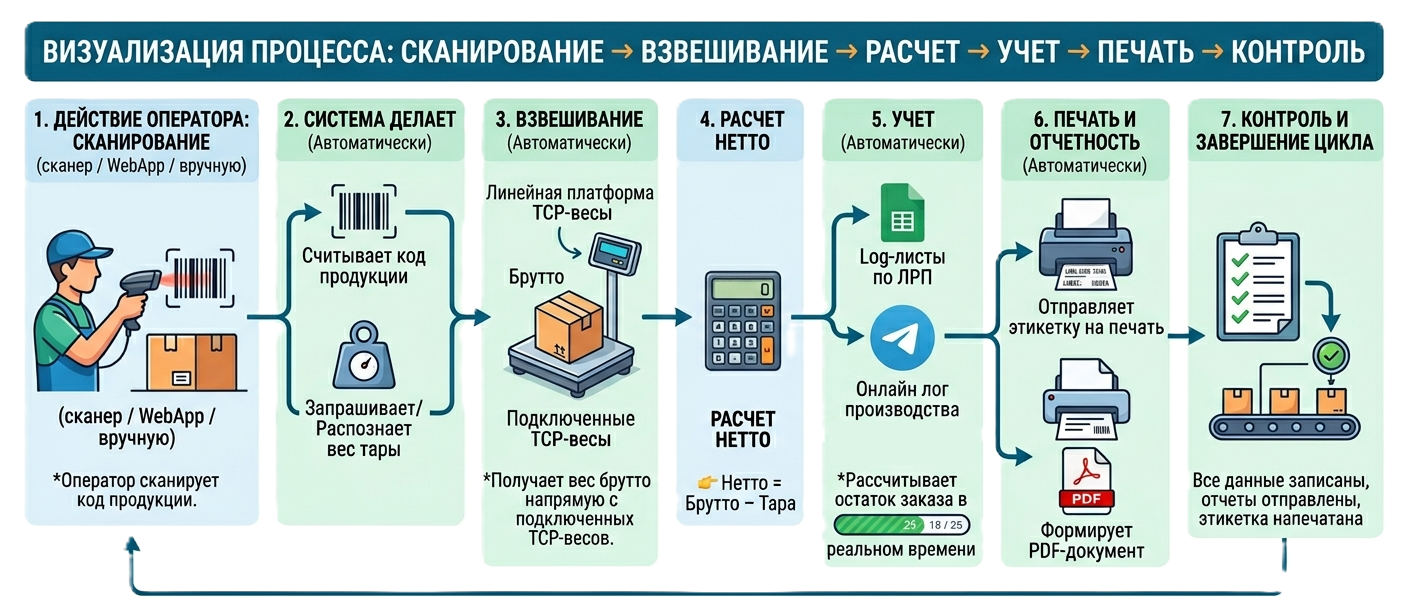
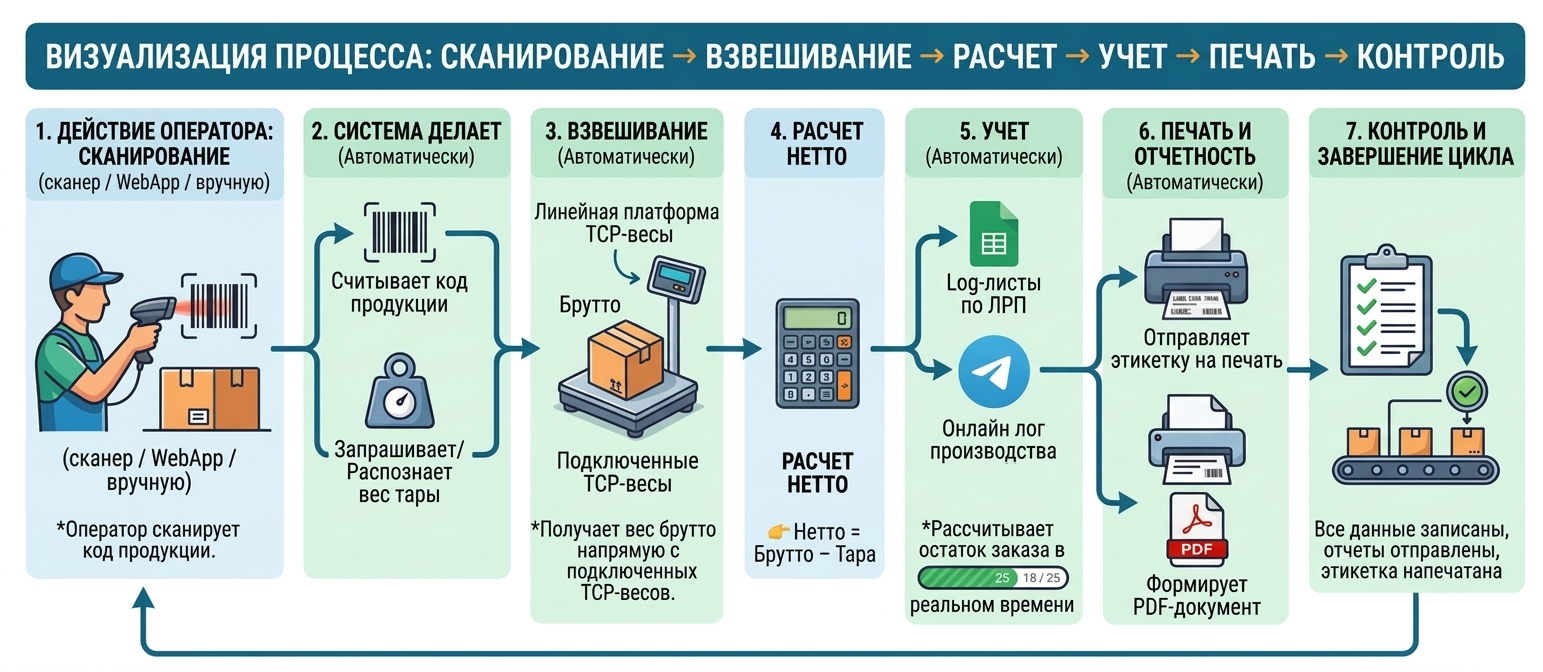
Update image12 again

Changed region(s): [[0.0, 0.0309, 1.0, 0.9902], [0.5, 0.6498, 0.5625, 0.7427], [0.0625, 0.8974, 0.0938, 0.9593]]

diff --git a/index.html b/index.html
@@ -428,7 +428,7 @@ section{
         <p class="hero-lead">Переход от ручного учета к цифровому управлению процессом</p>
       </div>
     </section>
-    <section id="section-1" class="content-section"><div class="section-head"><span class="section-kicker">1</span><h2>Проблемы</h2></div><article class="detail-card"><h3>Бумажный учет</h3><p>Во многих производственных компаниях учет продукции до сих пор построен на ручном вводе данных или на использовании разрозненных инструментов (Excel, бумажные записи, устные передачи информации).</p><p>Такая модель работы неизбежно приводит к системным потерям и снижению управляемости:</p><ul><li>ошибки операторов при вводе данных</li><li>расхождения по весу (брутто / нетто)</li><li>отсутствие прозрачности в режиме реального времени</li><li>задержки при обработке информации</li><li>невозможность оперативно проверить или восстановить операции</li><li>сложность анализа фактического выполнения заказов</li><li>отсутствие единого источника достоверных данных</li></ul><p>Дополнительно возникают скрытые риски:</p><ul><li>неконтролируемые корректировки</li><li>“ручные правки” без следа</li><li>дублирование записей</li><li>зависимость от конкретных сотрудников</li></ul><p>В результате бизнес теряет:</p><ul><li>деньги — за счет прямых потерь сырья</li><li>время — из-за медленных и ручных операций</li><li>управляемость — отсутствует точная картина происходящего</li></ul></article><article class="detail-card"><h3>Точное нетто</h3><p>Одной из ключевых проблем при производстве пленки является невозможность получения точного веса <strong>нетто</strong> продукции. Основная причина — нестабильность веса тары.</p><p>В качестве тары используются картонные втулки, характеристики которых существенно варьируются:</p><ul><li>разная толщина картона</li><li>разная длина втулок</li><li>различная влажность материала</li></ul><p>Каждый из этих факторов напрямую влияет на вес тары. В результате, даже при наличии точного веса <strong>брутто</strong>, невозможно корректно определить вес <strong>нетто</strong>, что приводит к:</p><ul><li>искажению учета продукции</li><li>потерям сырья</li><li>ошибкам в отгрузке и расчетах</li></ul></article><article class="detail-card"><h3>Принятое решение</h3><p>Для устранения данной проблемы был внедрен отдельный процесс точного учета веса тары:</p><ul><li><strong>Индивидуальное взвешивание тары</strong></li></ul><p>Каждая втулка проходит отдельное взвешивание до начала производства.</p><ul><li><strong>Фиксация веса в штрихкоде</strong></li></ul><p>Полученный точный вес тары записывается (зашивается) в штрихкод.</p><ul><li><strong>Интеграция с системой взвешивания</strong></li></ul><p>В процессе производства:</p><ul><li>сканируется штрихкод</li><li>система автоматически получает вес тары</li><li>производится взвешивание брутто</li><li><strong>Автоматический расчет нетто</strong></li></ul><p>Вес нетто определяется точно и автоматически:</p><p><strong>Нетто = Брутто – Тара</strong></p></article><article class="detail-card"><h3>Результат внедрения</h3><p>Внедренное решение позволило:</p><ul><li>полностью устранить погрешности, связанные с нестабильностью тары</li><li>обеспечить <strong>точный учет веса нетто</strong> каждой единицы продукции</li><li>снизить потери сырья</li><li>исключить влияние человеческого фактора</li><li>повысить прозрачность и достоверность учета</li></ul></article><article class="detail-card"><h3>Эффект для производства</h3><p>Данный подход формирует контролируемую и цифровую систему учета, в которой:</p><ul><li>каждая единица продукции имеет точные весовые параметры</li><li>данные фиксируются автоматически</li><li>исключаются системные потери</li></ul><p>В результате предприятие получает прямой экономический эффект за счет сокращения потерь и повышения точности учета сырьевой составляющей продукции.</p><p>👉 <strong>Даже 1–2% неучтенных потерь на объеме производства превращаются в десятки тысяч гривен ежемесячно.</strong></p></article><div class="detail-grid"></div></section><section id="section-2" class="content-section"><div class="section-head"><span class="section-kicker">2</span><h2>Решение (готовый продукт)</h2></div><p>Мы предлагаем готовое решение — Telegram-бот для автоматизации учета продукции на производстве.</p><p>Это не просто бот, а полноценная система, которая объединяет в единый цифровой процесс:</p><ul><li>операторов ЛРП</li><li>сканирование штрихкодов</li><li>весовое оборудование (TCP-весы)</li><li>учетную систему (Google Sheets)</li><li>систему печати</li></ul><p>Система выстраивает непрерывный поток данных без ручного ввода:</p><p>👉 <strong>Сканирование → Взвешивание → Расчет → Учет → Печать → Контроль</strong></p><img src="images/image12.png?v=3" alt="Схема процесса: Сканирование - Взвешивание - Расчет - Учет - Печать - Контроль" class="lightbox-trigger" data-label="Схема процесса" style="width:100%;height:auto;display:block;border-radius:16px;margin:16px 0 18px;cursor:zoom-in;"><div class="detail-grid"><article class="detail-card detail-card--wide"><h3>Что делает система (по факту)</h3><div class="fact-split"><div class="fact-col"><p>Система полностью берет на себя операционный цикл:</p><ul><li>считывает код продукции (сканер / WebApp / вручную)</li><li>автоматически определяет номенклатуру (лист Tag)</li><li>запрашивает и распознает вес тары</li><li>получает вес брутто напрямую с подключенных TCP-весов</li><li>автоматически рассчитывает нетто:</li></ul></div><div class="fact-col"><ul><li>записывает данные в Google Sheets (Log-листы по ЛРП)</li><li>отправляет информацию в Telegram-группу (онлайн лог производства)</li><li>формирует PDF-документ</li><li>отправляет этикетку на печать</li><li>рассчитывает остаток заказа в реальном времени</li></ul><p>👉 <strong>Оператор выполняет только одно действие — сканирует.</strong></p></div></div><p class="fact-netto">👉 <strong>Нетто = Брутто – Тара</strong></p></article><article class="detail-card detail-card--wide detail-card--title"><h3>Какие задачи решает система</h3></article><article class="detail-card"><h4>Устранение ручного ввода</h4><ul><li>нет ввода чисел вручную</li><li>нет ошибок оператора</li><li>нет необходимости в обучении сложным системам</li></ul><p>👉 <strong>Данные фиксируются автоматически.</strong></p></article><article class="detail-card"><h4>Автоматический расчет веса</h4><ul><li>брутто приходит с весов</li><li>тара определяется через код</li><li>нетто рассчитывается системой</li></ul><p>👉 <strong>Полностью исключаются ошибки расчетов.</strong></p></article><article class="detail-card"><h4>Полный онлайн-учет операций</h4><p>Каждая операция фиксируется автоматически:</p><ul><li>код / заказ</li><li>номенклатура</li><li>тара</li><li>брутто</li><li>нетто</li><li>дата и время</li><li>пользователь</li></ul><p>👉 <strong>Формируется полный цифровой журнал производства.</strong></p></article><article class="detail-card"><h4>Контроль остатков в реальном времени</h4><p>Система автоматически рассчитывает:</p><p>👉 <strong>Остаток = Balance – net\_today</strong></p><p>С учетом:</p><ul><li>бизнес-дня (начало в 09:00)</li><li>фактического выпуска</li></ul><p>👉 <strong>Руководство видит реальное выполнение заказов.</strong></p></article><article class="detail-card"><h4>Управление нумерацией продукции</h4><ul><li>отдельная нумерация:</li><li>годной продукции</li><li>брака</li><li>синхронизация с данными в таблице</li><li>восстановление после перезапуска</li></ul><p>👉 <strong>Исключаются дубли и потери учета.</strong></p></article><article class="detail-card"><h4>Контроль брака и корректировок</h4><ul><li>удаление записи реализовано через статус <strong>Eror</strong></li><li>данные не удаляются физически</li><li>возможно восстановление записи</li><li>брак учитывается отдельно (Trash)</li></ul><p>👉 <strong>Полная прозрачность всех изменений.</strong></p></article><article class="detail-card"><h4>Автоматическая печать</h4><ul><li>формирование PDF из шаблона (лист Print)</li><li>отправка на принтер через Foxit</li><li>подтверждение пользователю</li></ul><p>👉 <strong>Исключаются ошибки маркировки.</strong></p></article><article class="detail-card"><h4>Онлайн-мониторинг</h4><ul><li>отправка всех операций в Telegram-группу</li><li>контроль в реальном времени</li></ul><p>👉 <strong>Руководство видит все операции “здесь и сейчас”.</strong></p></article><article class="detail-card"><h4>Тестовый режим</h4><p>Команда: <strong>/test</strong></p><ul><li>отключает оборудование</li><li>позволяет вводить данные вручную</li><li>помечает записи как тестовые (Eror)</li></ul><p>👉 <strong>Удобно для внедрения и обучения.</strong></p></article></div></section>
+    <section id="section-1" class="content-section"><div class="section-head"><span class="section-kicker">1</span><h2>Проблемы</h2></div><article class="detail-card"><h3>Бумажный учет</h3><p>Во многих производственных компаниях учет продукции до сих пор построен на ручном вводе данных или на использовании разрозненных инструментов (Excel, бумажные записи, устные передачи информации).</p><p>Такая модель работы неизбежно приводит к системным потерям и снижению управляемости:</p><ul><li>ошибки операторов при вводе данных</li><li>расхождения по весу (брутто / нетто)</li><li>отсутствие прозрачности в режиме реального времени</li><li>задержки при обработке информации</li><li>невозможность оперативно проверить или восстановить операции</li><li>сложность анализа фактического выполнения заказов</li><li>отсутствие единого источника достоверных данных</li></ul><p>Дополнительно возникают скрытые риски:</p><ul><li>неконтролируемые корректировки</li><li>“ручные правки” без следа</li><li>дублирование записей</li><li>зависимость от конкретных сотрудников</li></ul><p>В результате бизнес теряет:</p><ul><li>деньги — за счет прямых потерь сырья</li><li>время — из-за медленных и ручных операций</li><li>управляемость — отсутствует точная картина происходящего</li></ul></article><article class="detail-card"><h3>Точное нетто</h3><p>Одной из ключевых проблем при производстве пленки является невозможность получения точного веса <strong>нетто</strong> продукции. Основная причина — нестабильность веса тары.</p><p>В качестве тары используются картонные втулки, характеристики которых существенно варьируются:</p><ul><li>разная толщина картона</li><li>разная длина втулок</li><li>различная влажность материала</li></ul><p>Каждый из этих факторов напрямую влияет на вес тары. В результате, даже при наличии точного веса <strong>брутто</strong>, невозможно корректно определить вес <strong>нетто</strong>, что приводит к:</p><ul><li>искажению учета продукции</li><li>потерям сырья</li><li>ошибкам в отгрузке и расчетах</li></ul></article><article class="detail-card"><h3>Принятое решение</h3><p>Для устранения данной проблемы был внедрен отдельный процесс точного учета веса тары:</p><ul><li><strong>Индивидуальное взвешивание тары</strong></li></ul><p>Каждая втулка проходит отдельное взвешивание до начала производства.</p><ul><li><strong>Фиксация веса в штрихкоде</strong></li></ul><p>Полученный точный вес тары записывается (зашивается) в штрихкод.</p><ul><li><strong>Интеграция с системой взвешивания</strong></li></ul><p>В процессе производства:</p><ul><li>сканируется штрихкод</li><li>система автоматически получает вес тары</li><li>производится взвешивание брутто</li><li><strong>Автоматический расчет нетто</strong></li></ul><p>Вес нетто определяется точно и автоматически:</p><p><strong>Нетто = Брутто – Тара</strong></p></article><article class="detail-card"><h3>Результат внедрения</h3><p>Внедренное решение позволило:</p><ul><li>полностью устранить погрешности, связанные с нестабильностью тары</li><li>обеспечить <strong>точный учет веса нетто</strong> каждой единицы продукции</li><li>снизить потери сырья</li><li>исключить влияние человеческого фактора</li><li>повысить прозрачность и достоверность учета</li></ul></article><article class="detail-card"><h3>Эффект для производства</h3><p>Данный подход формирует контролируемую и цифровую систему учета, в которой:</p><ul><li>каждая единица продукции имеет точные весовые параметры</li><li>данные фиксируются автоматически</li><li>исключаются системные потери</li></ul><p>В результате предприятие получает прямой экономический эффект за счет сокращения потерь и повышения точности учета сырьевой составляющей продукции.</p><p>👉 <strong>Даже 1–2% неучтенных потерь на объеме производства превращаются в десятки тысяч гривен ежемесячно.</strong></p></article><div class="detail-grid"></div></section><section id="section-2" class="content-section"><div class="section-head"><span class="section-kicker">2</span><h2>Решение (готовый продукт)</h2></div><p>Мы предлагаем готовое решение — Telegram-бот для автоматизации учета продукции на производстве.</p><p>Это не просто бот, а полноценная система, которая объединяет в единый цифровой процесс:</p><ul><li>операторов ЛРП</li><li>сканирование штрихкодов</li><li>весовое оборудование (TCP-весы)</li><li>учетную систему (Google Sheets)</li><li>систему печати</li></ul><p>Система выстраивает непрерывный поток данных без ручного ввода:</p><p>👉 <strong>Сканирование → Взвешивание → Расчет → Учет → Печать → Контроль</strong></p><img src="images/image12.png?v=4" alt="Схема процесса: Сканирование - Взвешивание - Расчет - Учет - Печать - Контроль" class="lightbox-trigger" data-label="Схема процесса" style="width:100%;height:auto;display:block;border-radius:16px;margin:16px 0 18px;cursor:zoom-in;"><div class="detail-grid"><article class="detail-card detail-card--wide"><h3>Что делает система (по факту)</h3><div class="fact-split"><div class="fact-col"><p>Система полностью берет на себя операционный цикл:</p><ul><li>считывает код продукции (сканер / WebApp / вручную)</li><li>автоматически определяет номенклатуру (лист Tag)</li><li>запрашивает и распознает вес тары</li><li>получает вес брутто напрямую с подключенных TCP-весов</li><li>автоматически рассчитывает нетто:</li></ul></div><div class="fact-col"><ul><li>записывает данные в Google Sheets (Log-листы по ЛРП)</li><li>отправляет информацию в Telegram-группу (онлайн лог производства)</li><li>формирует PDF-документ</li><li>отправляет этикетку на печать</li><li>рассчитывает остаток заказа в реальном времени</li></ul><p>👉 <strong>Оператор выполняет только одно действие — сканирует.</strong></p></div></div><p class="fact-netto">👉 <strong>Нетто = Брутто – Тара</strong></p></article><article class="detail-card detail-card--wide detail-card--title"><h3>Какие задачи решает система</h3></article><article class="detail-card"><h4>Устранение ручного ввода</h4><ul><li>нет ввода чисел вручную</li><li>нет ошибок оператора</li><li>нет необходимости в обучении сложным системам</li></ul><p>👉 <strong>Данные фиксируются автоматически.</strong></p></article><article class="detail-card"><h4>Автоматический расчет веса</h4><ul><li>брутто приходит с весов</li><li>тара определяется через код</li><li>нетто рассчитывается системой</li></ul><p>👉 <strong>Полностью исключаются ошибки расчетов.</strong></p></article><article class="detail-card"><h4>Полный онлайн-учет операций</h4><p>Каждая операция фиксируется автоматически:</p><ul><li>код / заказ</li><li>номенклатура</li><li>тара</li><li>брутто</li><li>нетто</li><li>дата и время</li><li>пользователь</li></ul><p>👉 <strong>Формируется полный цифровой журнал производства.</strong></p></article><article class="detail-card"><h4>Контроль остатков в реальном времени</h4><p>Система автоматически рассчитывает:</p><p>👉 <strong>Остаток = Balance – net\_today</strong></p><p>С учетом:</p><ul><li>бизнес-дня (начало в 09:00)</li><li>фактического выпуска</li></ul><p>👉 <strong>Руководство видит реальное выполнение заказов.</strong></p></article><article class="detail-card"><h4>Управление нумерацией продукции</h4><ul><li>отдельная нумерация:</li><li>годной продукции</li><li>брака</li><li>синхронизация с данными в таблице</li><li>восстановление после перезапуска</li></ul><p>👉 <strong>Исключаются дубли и потери учета.</strong></p></article><article class="detail-card"><h4>Контроль брака и корректировок</h4><ul><li>удаление записи реализовано через статус <strong>Eror</strong></li><li>данные не удаляются физически</li><li>возможно восстановление записи</li><li>брак учитывается отдельно (Trash)</li></ul><p>👉 <strong>Полная прозрачность всех изменений.</strong></p></article><article class="detail-card"><h4>Автоматическая печать</h4><ul><li>формирование PDF из шаблона (лист Print)</li><li>отправка на принтер через Foxit</li><li>подтверждение пользователю</li></ul><p>👉 <strong>Исключаются ошибки маркировки.</strong></p></article><article class="detail-card"><h4>Онлайн-мониторинг</h4><ul><li>отправка всех операций в Telegram-группу</li><li>контроль в реальном времени</li></ul><p>👉 <strong>Руководство видит все операции “здесь и сейчас”.</strong></p></article><article class="detail-card"><h4>Тестовый режим</h4><p>Команда: <strong>/test</strong></p><ul><li>отключает оборудование</li><li>позволяет вводить данные вручную</li><li>помечает записи как тестовые (Eror)</li></ul><p>👉 <strong>Удобно для внедрения и обучения.</strong></p></article></div></section>
     <section class="gallery-block" id="gallery">
       <div class="gallery-head">
         <div>
@@ -503,6 +503,7 @@ document.addEventListener('keydown', (event) => {
 </script>
 </body>
 </html>
+
 
 
 
